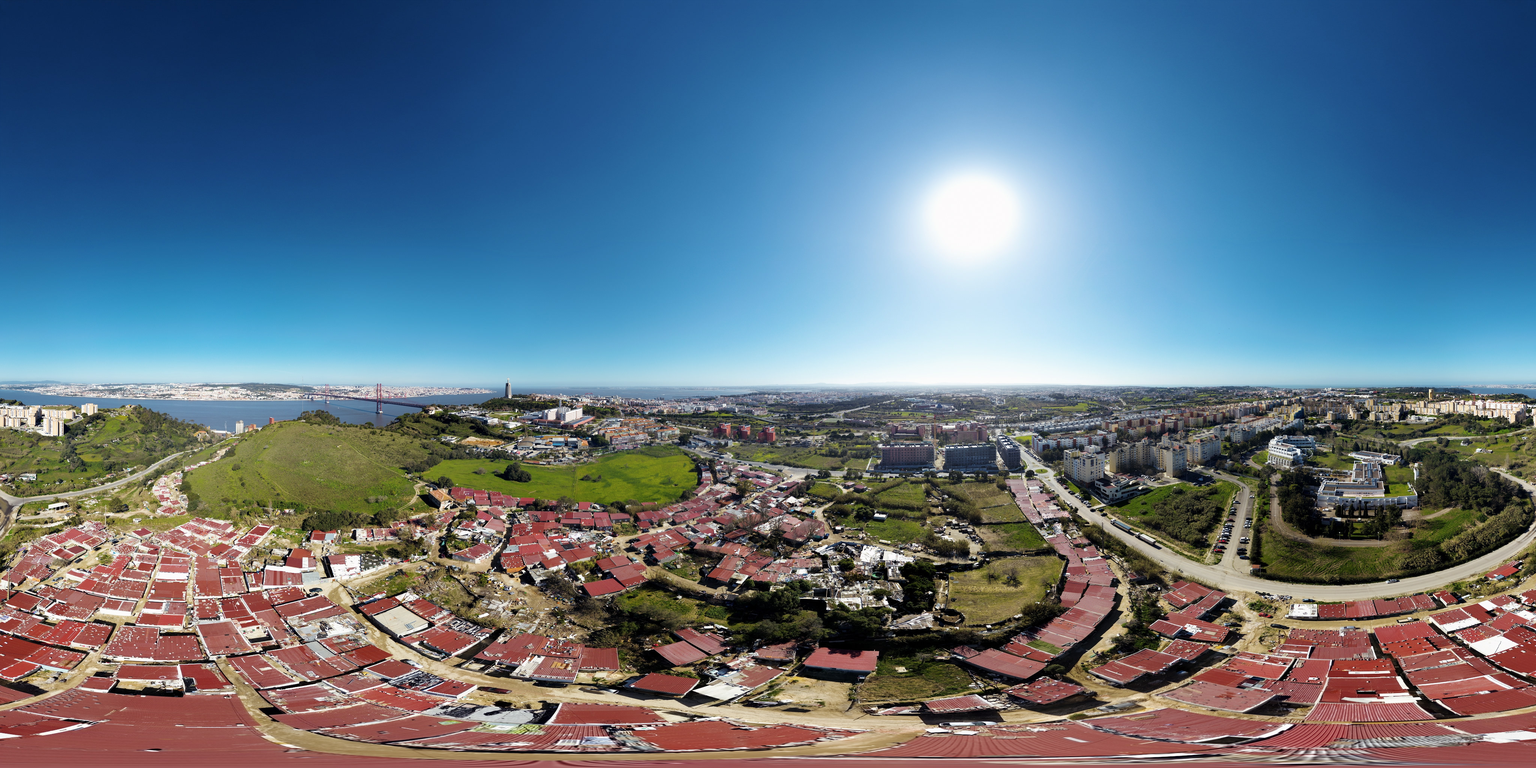
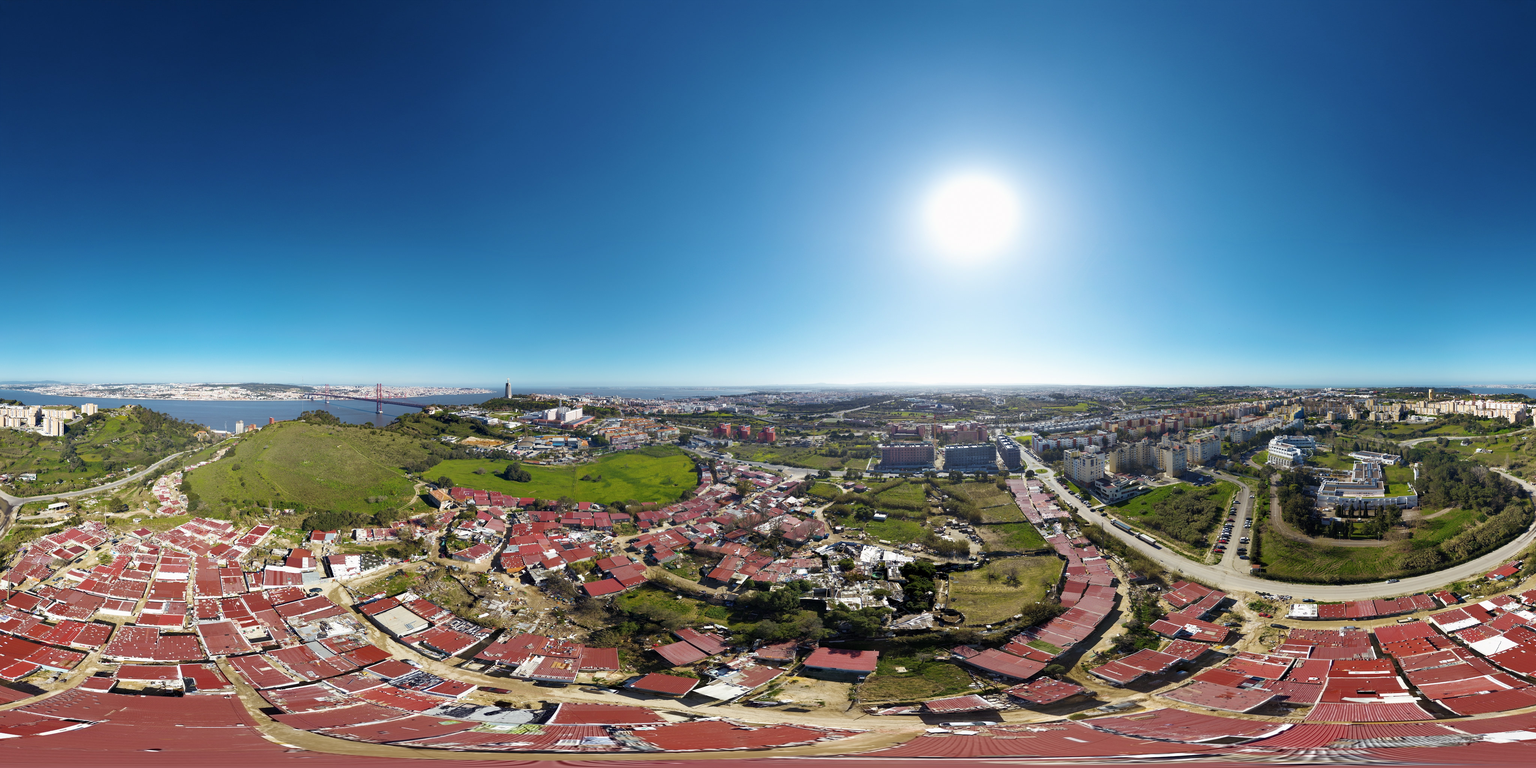
Olho de Águia: sombras do chão um pouco mais abertas (céu, meios-tons e claros iguais)

diff --git a/scripts/assar-ceu.py b/scripts/assar-ceu.py
@@ -66,6 +66,17 @@ primeiro e posta como se tivesse sido, e so depois passa pelo LUT:
      LUT da fica pouco abaixo do branco, e o branco passa a ser BRANCO.
      Acima de 94 % os altos encostam ao branco devagar, como nos videos.
 
+As sombras (desde 2026-11-24, a pedido: "sobe um pouco as sombras")
+------------------------------------------------------------------
+
+Com o LUT, 5 % do chao ficava quase preto (abaixo de 9 em 255). Antes de
+tudo, ainda em luz linear, as zonas escuras sobem SOMBRAS stops: por inteiro
+abaixo de SOMBRAS_DE, e cada vez menos ate nada acima de SOMBRAS_ATE. O que
+conta e a luz da zona (um filtro guiado, que respeita as orlas), e nao a de
+cada ponto, para o pormenor dentro das sombras ficar com o contraste que
+tinha. So do horizonte para baixo: o azul fundo do ceu nao e sombra, e fica
+igual. Meios-tons e claros tambem.
+
 Os numeros foram escolhidos contra as fotografias do proprio drone (os JPG
 de Brutos\\JPG, na exposicao do meio), projectando a panoramica em seis
 das vistas delas: cinzentos, claros e escuros no mesmo sitio, e contraste
@@ -87,6 +98,7 @@ import shutil
 import subprocess
 import sys
 
+import cv2
 import numpy as np
 from PIL import Image
 
@@ -96,6 +108,12 @@ Image.MAX_IMAGE_PIXELS = None
 ORIGINAL = r"C:\Users\malve\Videos\Malha Viva\Imagens\HDRi\HDRi - Preenchimento Generativo.exr"
 # O LUT. Fica fora do repositorio: e de um pacote comprado, nao se publica.
 LUT_HH = r"C:\Users\malve\Videos\Malha Viva\Vídeo\Cor\Correção\HH-CINEMATIC-SONY-LUT-PACK\HLG\1-Basic LUT.cube"
+# Fora do portatil, os dois estao na copia dele no Google Drive.
+COPIA = r"G:\Outros computadores\O meu portátil\Malha Viva"
+if not os.path.isfile(ORIGINAL):
+    ORIGINAL = ORIGINAL.replace(r"C:\Users\malve\Videos\Malha Viva", COPIA)
+if not os.path.isfile(LUT_HH):
+    LUT_HH = LUT_HH.replace(r"C:\Users\malve\Videos\Malha Viva", COPIA)
 # So a paragem do Olho de Aguia; o ceu do bairro fica como esta.
 SAIDA = os.path.join('public', 'olho-de-aguia-360.jpg')
 
@@ -105,6 +123,11 @@ SAIDA = os.path.join('public', 'olho-de-aguia-360.jpg')
 LARGURA = 4096
 
 ACERTOS = {
+    # Quantos stops sobem as sombras do chao, e entre que luzes (linear):
+    # por inteiro abaixo da primeira, nada acima da segunda.
+    'sombras': 1.0,
+    'sombras_de': 0.02,
+    'sombras_ate': 0.16,
     # Quanto sobe a cor, em luz linear, antes do LUT (ponto 2 acima).
     'cor': 1.5,
     # Stops a mais, em luz linear, antes do LUT (ponto 3).
@@ -241,6 +264,38 @@ def do_video_para_a_web(x):
     return np.where(luz <= 0.0031308, 12.92 * luz, 1.055 * np.power(luz, 1 / 2.4) - 0.055)
 
 
+def degrau(x, de, ate):
+    """De 0 a 1, devagar, entre dois valores."""
+    t = np.clip((x - de) / (ate - de), 0.0, 1.0)
+    return t * t * (3.0 - 2.0 * t)
+
+
+def luz_da_zona(luz, raio=24, orla=0.25):
+    """Filtro guiado da luz (em stops): alisa as zonas e respeita as orlas. Da a volta de lado a lado."""
+    margem = raio * 3
+    x = np.concatenate([luz[:, -margem:], luz, luz[:, :margem]], axis=1)
+
+    def media(a):
+        return cv2.blur(a, (2 * raio + 1, 2 * raio + 1), borderType=cv2.BORDER_REPLICATE)
+
+    m = media(x)
+    variancia = media(x * x) - m * m
+    a = variancia / (variancia + orla)
+    b = m - a * m
+    return (media(a) * x + media(b))[:, margem:-margem]
+
+
+def subir_sombras(linear, acertos=ACERTOS):
+    """As sombras do chao sobem um pouco, em luz linear; o ceu, os meios-tons e os claros ficam iguais."""
+    cinzento = linear @ np.array([0.2126, 0.7152, 0.0722], dtype=np.float32)
+    zona = luz_da_zona(np.log2(np.maximum(cinzento, 1e-4)))
+    peso = 1.0 - degrau(zona, np.log2(acertos['sombras_de']), np.log2(acertos['sombras_ate']))
+    # O horizonte fica a meio da imagem; a passagem e na orla dele.
+    altura = np.arange(linear.shape[0], dtype=np.float32) / linear.shape[0]
+    peso = peso * degrau(altura, 0.475, 0.505)[:, None]
+    return linear * np.exp2(acertos['sombras'] * peso)[..., None].astype(np.float32)
+
+
 def como_se_fosse_hlg(linear, acertos=ACERTOS):
     """Pontos 1 a 4: da luz linear (709) ao sinal que o LUT espera (HLG, BT.2020)."""
     largas = np.clip(linear, 0.0, None) @ DE_709_PARA_2020.T
@@ -290,6 +345,8 @@ def main():
     print('A trazer o original a %d pontos de largura...' % LARGURA)
     imagem = trazer_original(LARGURA)
     confirmar_que_esta_direita(imagem)
+    print('A subir as sombras...')
+    imagem = subir_sombras(imagem)
     print('A aplicar o LUT (%s)...' % os.path.basename(LUT_HH))
     tratada = tratar(imagem, ler_cube(LUT_HH))
     print('A escrever %s...' % saida)
